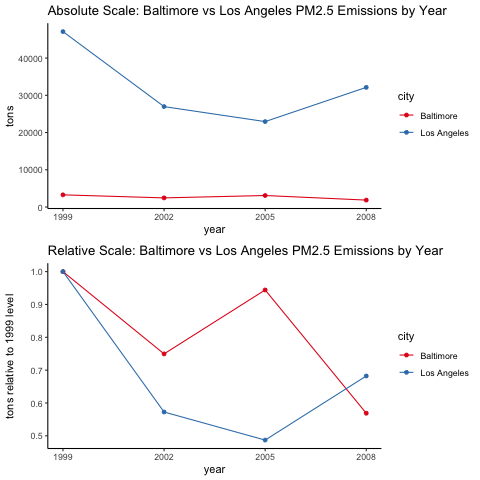
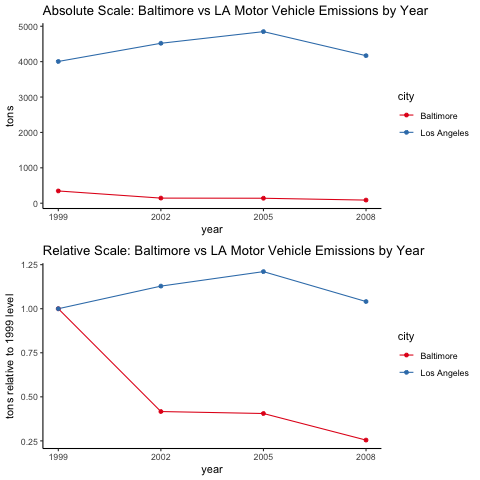
formatting plot5, limit plot6 script to MV records

diff --git a/Course4_ExploratoryDataAnalysis/Project2/README.md b/Course4_ExploratoryDataAnalysis/Project2/README.md
@@ -32,10 +32,11 @@ The `download_files.R` script downloads and unzips the two data files into the c
 
 1. Using base R graphics, this plot shows that the total trend in emissions in the U.S. is decreasing over time.  Relevant files are `plot1.R` and `plot1.png`.
 2. Using base R graphics, this plot indicates an overall decreasing trend of emissions in Baltimore City, MD; however, the trend is not consistent across all time periods.  Relevant files are `plot2.R` and `plot2.png`.
-3.  Using the ggplot2 plotting library, this plot depicts the trend in Emissions within Baltimore City, MD over time and for four different emission types.  With the exception of the "POINT" type, each emission type shows a flat or decreasing trend in each successive time period.  Refer to files `plot3.R` and `plot3.png`.
+3.  Using the ggplot2 plotting library, this plot depicts the trend in Emissions within Baltimore, MD over time and for four different emission types.  With the exception of the "POINT" type, each emission type shows a flat or decreasing trend in each successive time period.  Refer to files `plot3.R` and `plot3.png`.
 4. Using ggplot2, plot four indicates that emissions due to coal were decreasing or relatively flat over successive time periods&mdash;see `plot4.R` and `plot4.png`.
-5. Created using the ggplot2 library, plot five shows motor vehicle emissions in Baltimore City, MD have consistently decreased over time.  Note: motor vehicle-related emissions were identify by SCC codes with a corresponding Short.Name field containing the term "veh"&mdash; short for "vehicle".  Relevant files are `plot5.R` and `plot5.png`.  
-6. Plot six was generated using ggplot2, and depicts a pattern of generally decreasing albeit somewhat noisy trends in PM2.5 emissions. Los Angeles experienced a much larger decrease in PM2.5 emissions over the 9 year period.  However, when viewing 2008 vs. 1999 levels on a relative scale, Baltimore experienced the larger decrease.  For details, refer to `plot6.r` and `plot6.png`.      
+5. Created using the ggplot2 library, plot five shows motor vehicle emissions in Baltimore City, MD have consistently decreased over time.  Note: motor vehicle-related emissions were identify by SCC codes with a corresponding Short.Name field containing the term "veh"&mdash;short for "vehicle".  Relevant files are `plot5.R` and `plot5.png`.  
+6. Plot six was generated using ggplot2, and depicts a small net increase in motor vehicle emissions in LA over the nine year period.  Baltimore, on the other hand, experienced consistent decreases in vehicle emissions throughout the nine year period. 
+Los Angeles exhibited much larger swings in emissions (both positive and negative) throughout the period.  When viewed on a relative basis, however, Baltimore's history depicts more pronounced changes, with Baltimore's 2008 emissions down roughly 75% from levels recorded in 1999.  For details, refer to `plot6.r` and `plot6.png`.      
 
  
  
